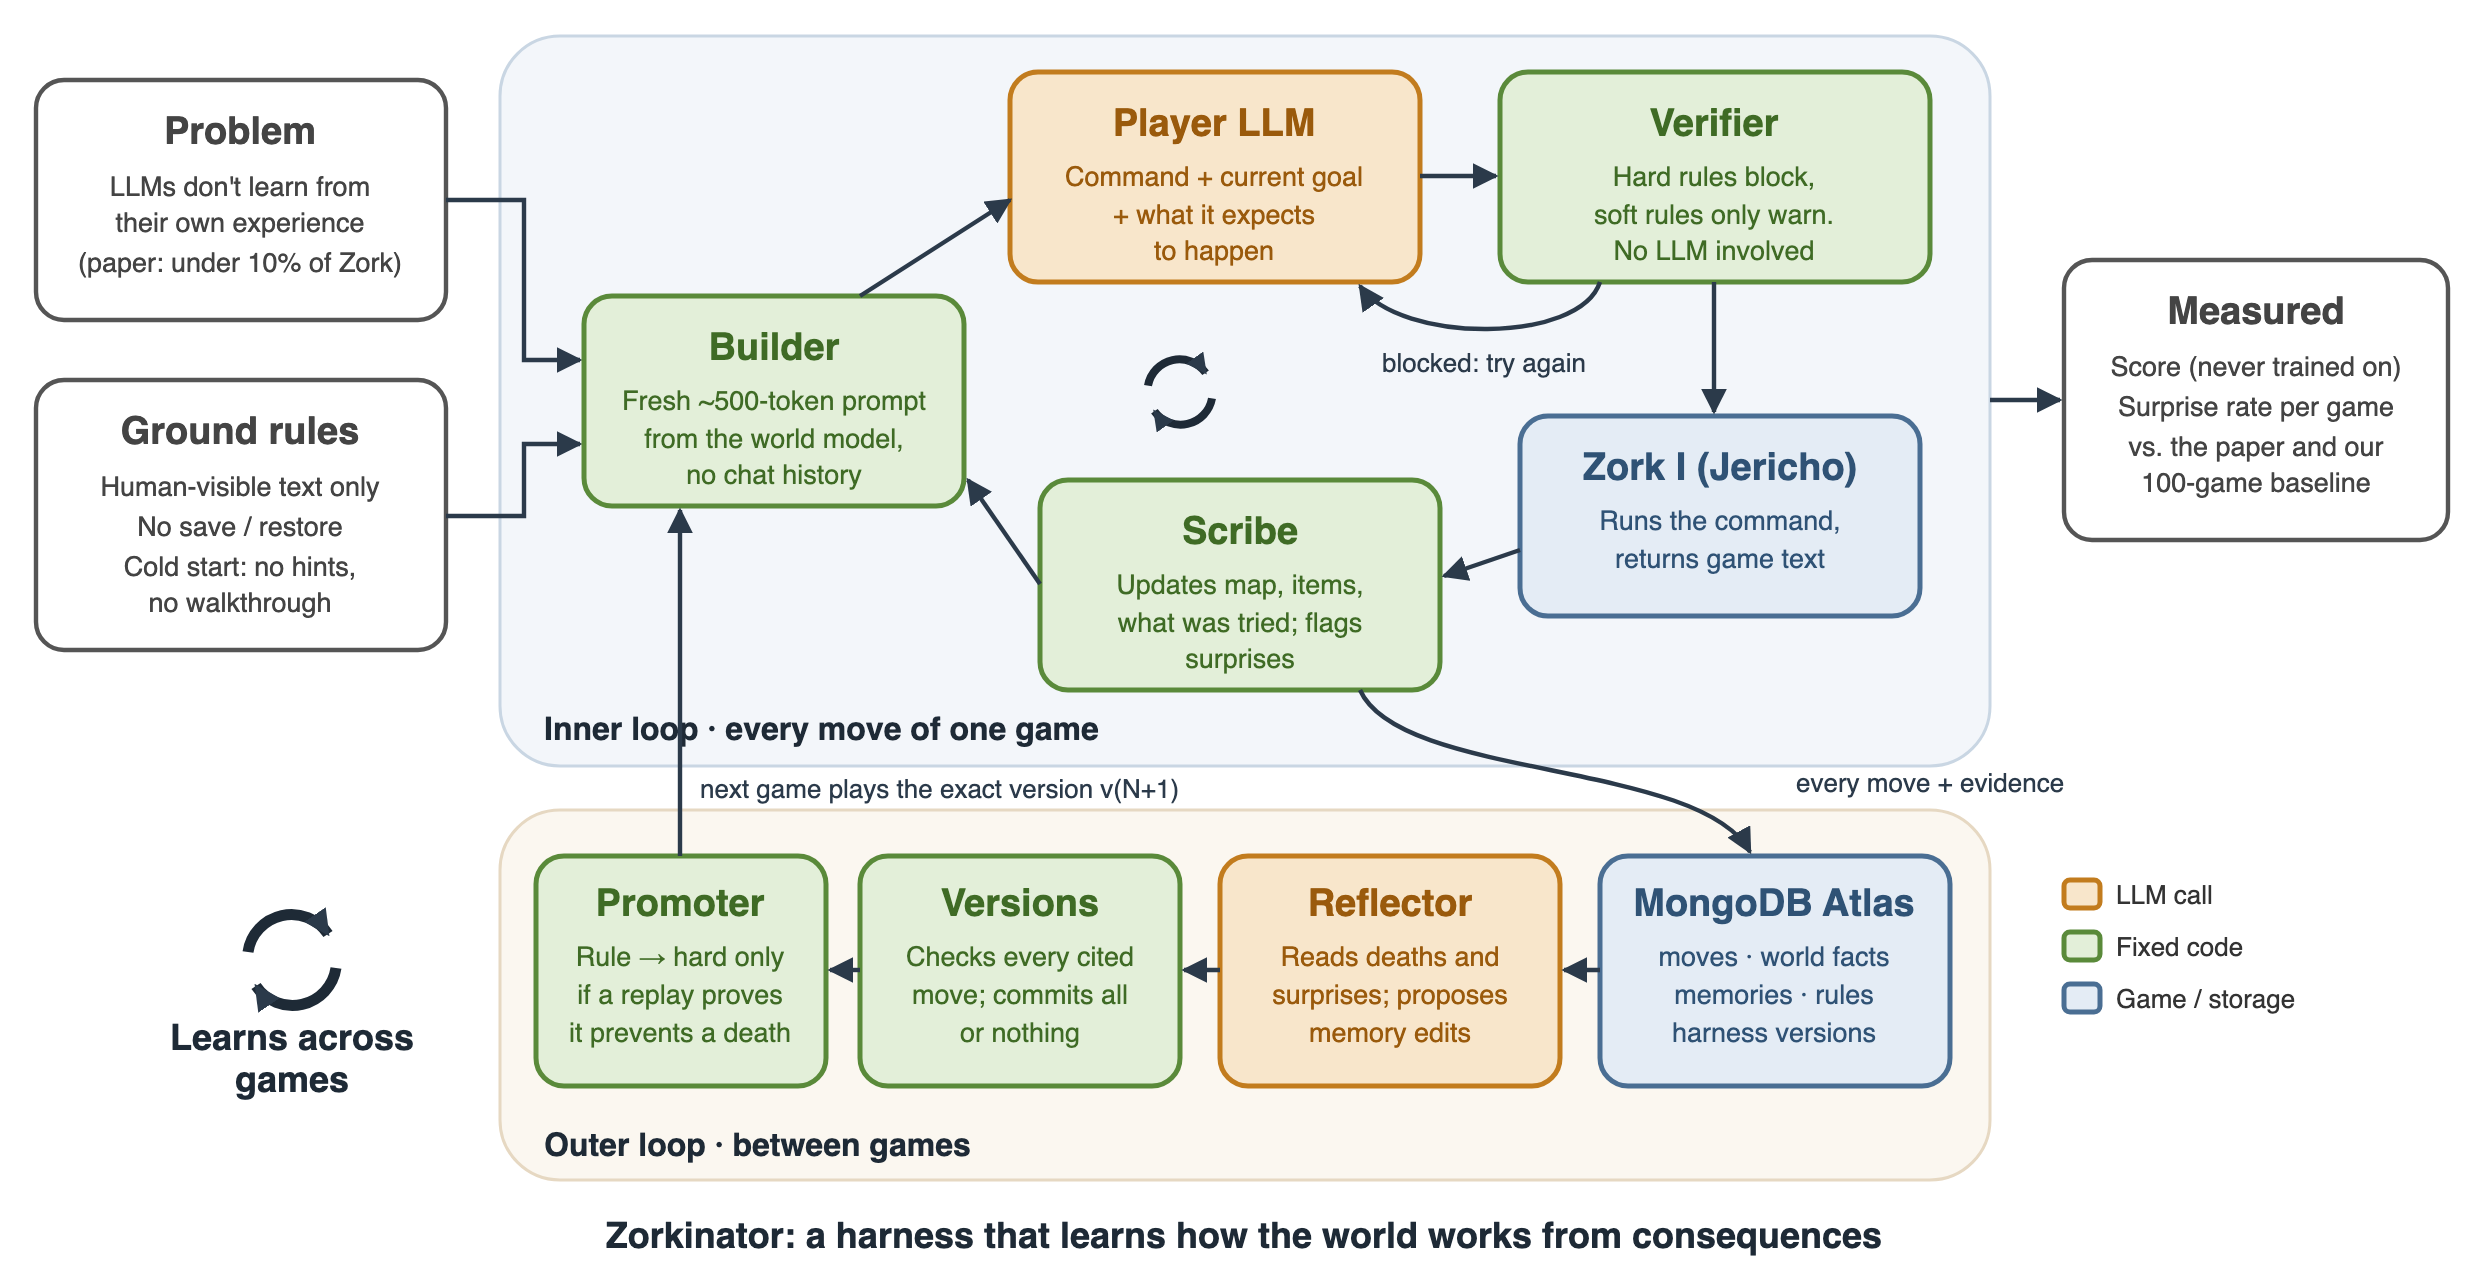
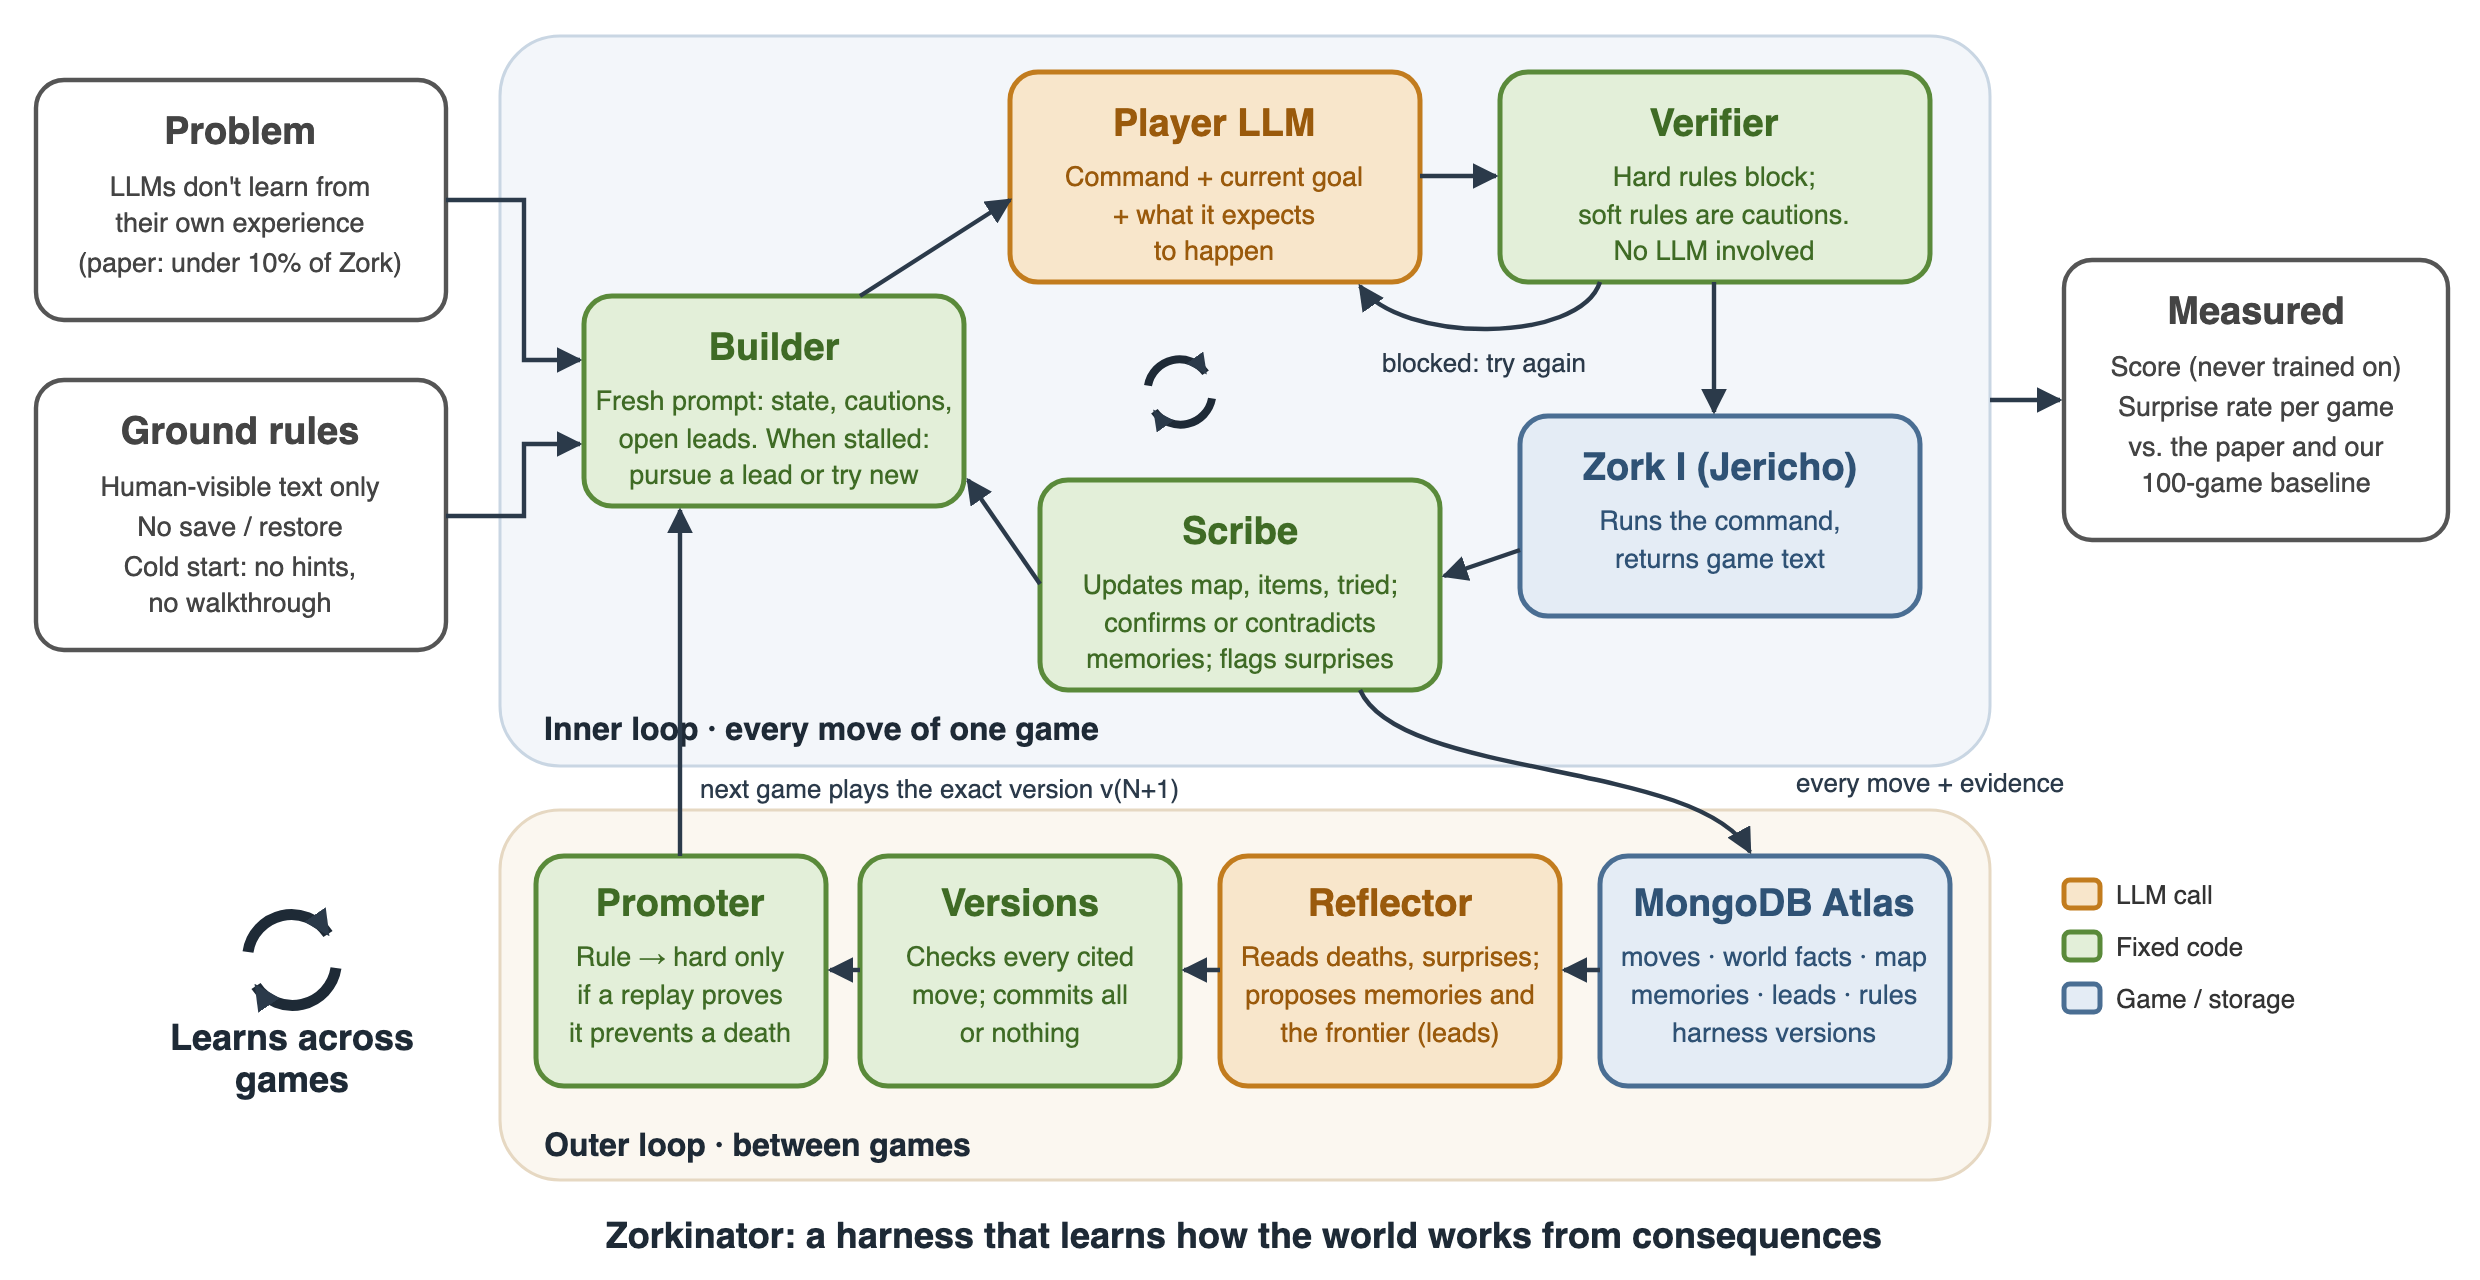
README + diagram: frontier (leads), cautions, memory confirmation, map carry-over

diff --git a/README.md b/README.md
@@ -53,11 +53,16 @@ agent can actually use, and the agent must not be allowed to act on beliefs it c
 </p>
 
 1. **Inner loop, one move.** The scribe updates the game's working knowledge (rooms, exits, items, what was
-   tried and what happened). The builder writes a fresh, compact prompt from it, with no chat history. The player
-   replies with a command, its current goal, and what it expects to happen. The verifier checks the command
-   against learned rules before it reaches the game.
-2. **Outer loop, after each game.** The reflector reads the finished game (deaths and score changes first) and
-   proposes memory changes: add, revise, or retire. The version manager checks every cited move exists, then
+   tried and what happened) and confirms or contradicts what earlier games remembered. The builder writes a
+   fresh, compact prompt from it, with no chat history: state, cautions that apply here, and the open leads.
+   The player replies with a command, its current goal, and what it expects to happen. The verifier checks the
+   command against learned rules before it reaches the game. When the monitor sees no new room, item, or score
+   for a while, the prompt switches to exploring: pursue a lead from earlier games, or try something untried.
+2. **Outer loop, after each game.** The reflector reads the finished game (deaths and surprises first) and
+   proposes memory changes: add, revise, or retire, plus the **frontier**: leads for every edge of what is
+   known (a locked thing, an exit that needs something, an item with no use yet), each with the action to try
+   next and how many games have been spent on it. Resolved leads are retired; dead ends are dropped after three
+   tries. Fixed code carries the map across games. The version manager checks every cited move exists, then
    commits the whole batch or none of it, and publishes a new harness version. The next game plays exactly that
    version.
 3. **Earned authority.** A proposed rule starts soft: it only adds a warning. The promoter makes it hard only if
@@ -69,11 +74,12 @@ agent can actually use, and the agent must not be allowed to act on beliefs it c
 | Piece | State |
 |---|---|
 | Paper baseline, past-chat condition, chains, analysis | Working; 100+ games logged |
-| Inner loop: world model, builder, player with goal, stall monitor | Working |
-| Outer loop: reflector, immutable versions, sequential chain on Atlas | Working; two-game smoke chain passed |
+| Inner loop: world model, builder, player with goal, stall monitor | Working; memories load into the world model, map carried over by fixed code |
+| Outer loop: reflector, immutable versions, sequential chain on Atlas | Working; learning failures are contained and logged per game |
+| Frontier: `lead` memories, idle → explore prompt | Working; leads reach the next game with an action and attempt count |
 | Verifier `check` and replay promoter (`verifier.py`) | Working: hard rules block in the harness; the chain promotes rules only by replay |
-| Predicted outcomes and surprise rate | Working: every move logs `expected`; the model rates its last prediction as a surprise or not |
-| GRUE LAB dashboard | Working on mock data; moving to live Atlas data |
+| Predicted outcomes and surprise rate | Working: every move logs `expected`; the model rates its last prediction as a surprise or not; surprises rank first in reflection evidence |
+| GRUE LAB dashboard | Working on live Atlas data: baseline and harness chains, per-life moves, map with graves, rulebook |
 
 ## Results so far
 
@@ -164,7 +170,9 @@ cd frontend && npm i && VITE_USE_MOCK=false npm run dev     # UI; omit VITE_USE_
 | `builder.py`, `player.py`, `monitor.py` | Fresh prompt each move; one command plus goal; repetition and stall warnings |
 | `harness.py`, `driver.py` | One harness game; the sequential chain that plays, reflects, and commits versions |
 | `reflector.py`, `versions.py` | Proposes memory changes from evidence; validates and publishes immutable versions |
-| `verifier.py` | Mechanical rule checks and soft → hard promotion by replay |
+| `verifier.py` | Mechanical rule checks and soft → hard promotion by replay; a rule must name an action |
+| `carryover.py` | Fixed-code map carry-over between versions |
+| `seed_run.py`, `import_runs.py` | Append a scripted game to a chain; load local baseline logs into Atlas |
 | `db.py` | The only module that talks to MongoDB Atlas, including Vector Search recall |
 | `analyze.py` | Results tables, surprise rate, permutation tests |
 | `view/`, `frontend/` | FastAPI over Atlas and the GRUE LAB dashboard |
